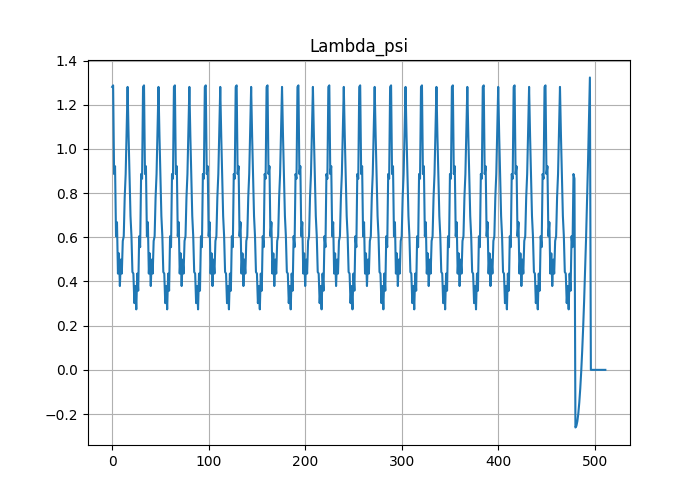
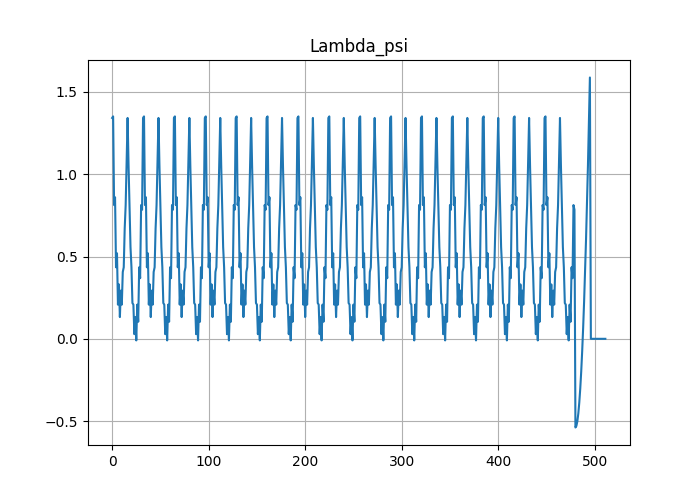
Lambda_f -> bar_Lambda_f by calling Y

diff --git a/matching_wavelet.py b/matching_wavelet.py
@@ -1,0 +1,96 @@
+import numpy as np
+import matplotlib.pyplot as plt
+
+begintime = 0
+endtime = 16
+N = 512 # number of sample
+l = 4
+T = 2 ** l # period
+delta_omega = 2*np.pi / T
+sampling_freq = 1 / T
+timepoints = np.arange(begintime, endtime, (endtime - begintime) / N)
+P = int(N / T) # number of period
+R = 2 # degree of phase function of lanmda_T
+
+if len(timepoints) != N :
+    raise Exception("Be same the num of samples {} and timepoints {}.".format(N, len(timepoints)))
+
+alpha = 2.0
+f_0 = 0.8
+def f_T(x) :
+    if x < 0 :
+        u = 0
+    else :
+        u = 1 
+    return x * np.exp(-alpha * x) * np.cos(2*np.pi*f_0*x) * u
+signal = [f_T(x) for x in timepoints]
+
+def make_A(size) :
+    # Make matrix A
+    A = np.zeros(size)
+    A[0][0] = A[0][6] = 1
+    A[1][1] = A[1][8] = 1
+    A[2][2] = A[2][10] = 1
+    A[3][3] = A[3][12] = 1
+    A[4][4] = A[4][14] = 1
+    A[5][5] = A[5][15] = 1
+    A[6][6] = A[6][14] = 1
+    A[7][7] = A[7][13] = 1
+    A[8][8] = A[8][12] = 1
+    A[9][9] = A[9][11] = 1
+    A[10][10] = 2
+    return A
+
+def matching_wavelet(signal, N, l, T, delta_omega, P) :
+    # Make matrix A
+    A = make_A((11,16))
+
+    # Make matrix W
+    fft = np.fft.fft(signal)
+    # fft = np.fft.fftshift(fft)
+    
+    fft_magnitude = abs(fft) ** 2
+
+    start_n = int(2**l / 3) + 1
+    end_n = int((2**(l+2)) / 3)
+
+    # make matrix W
+    W = np.array(fft_magnitude[start_n: end_n+1]) # W.shape = (end_n - start_n + 1, 1)
+    W = W * 1/T # 이게 뭐야...
+
+    if end_n - start_n + 1 == W.shape[0] :
+        print("Correspond the size of W")
+        print(f"W.shape: {W.shape} | start_n: {start_n} | end_n: {end_n}")
+    else :
+        print(f"W.shape have to equal to {end_n - start_n + 1}. Configure the size.")
+
+    # Calculate a
+    A_t = np.transpose(A)
+    numerate1 = np.transpose(np.ones(A.shape[0])) # 1.tr
+    numerate2 = np.linalg.inv(np.matmul(A, A_t))
+    numerate3 = np.matmul(np.matmul(np.matmul(numerate1, numerate2), A), W) # 분자
+    denominator1 = np.matmul(numerate1, numerate2)
+    denominator2 = np.matmul(denominator1, np.ones(A.shape[0])) # 분모
+    a = numerate3 / denominator2
+    print(f"a: {a}") # a
+
+    # Calculate Y
+    Y1 = np.linalg.inv(np.matmul(A, A_t))
+    Y2 = np.matmul(A_t, Y1)
+    Y3 = np.ones(A.shape[0]) - 1/a * np.matmul(A, W)
+    Y = 1/a * W + np.matmul(Y2, Y3)
+    # Y = Y * 1/sum(Y)
+    return Y, W
+
+if __name__ == "__main__" :
+    # Matching Discrete Spectrum Amplitude
+    Y, W = matching_wavelet(signal, N, l, T, delta_omega, P)
+
+    # Draw the vector Y
+    plt.title("Amplitude matching")
+    plt.plot([i for i in range(Y.shape[0])], Y, label='Amplitude Matching')
+    plt.plot([i for i in range(Y.shape[0])], W, '--', label='fft magnitude of singal')
+    plt.grid()
+    plt.legend()
+
+    plt.savefig("03amplitude_matching_wavelet.png")

diff --git a/04make_signal_gp_delay.py b/04make_signal_gp_delay.py
@@ -2,6 +2,7 @@ import numpy as np
 import cmath
 import matplotlib.pyplot as plt
 from scipy import interpolate
+from matching_wavelet import *
 
 begintime = 0
 endtime = 16
@@ -29,11 +30,11 @@ signal = [f_T(x) for x in timepoints]
 
 # make the group delay of signal
 fft = np.fft.fft(signal)
-fft = np.fft.fftshift(fft)
+# fft = np.fft.fftshift(fft)
 fft_magnitude = abs(fft)
 normalize_fft = fft / fft_magnitude
 
-k = np.arange(N)
+k = np.arange(len(normalize_fft))
 freq = k / T
 freq_list = [i for i in freq]
 
@@ -61,14 +62,6 @@ plt.grid()
 
 plt.savefig("04group_delay_signal.png")
 
-
-# _Lambda_f = []
-# for i in range(int(N/2)) :
-#     freq, fft_mag = data[i]
-#     _Lambda_f.append(f(freq))
-# Lambda_f = np.array(_Lambda_f)
-
-
 # make matrix B
 def Pi(n, k, T) :
     if -0.5 <= (n - T*k) / T < 0.5 :
@@ -84,17 +77,25 @@ def b_nr(n, r) :
     return b_nr
 
 B_qT = np.zeros((N, int(R/2 + 1)))
-for n in range(N) :
-    for r in range(int(R/2 + 1)) :
+for n in range(N) : # row index
+    for r in range(int(R/2 + 1)) : # column index
         B_qT[n][r] = b_nr(int(n/2 + T/2), r)
 
 
 B_q2m = np.zeros((N, int(R/2 + 1)))
-for n in range(N) :
-    for r in range(int(R/2 + 1)) :
+for n in range(N) : # row index
+    for r in range(int(R/2 + 1)) : # column index
         B_q2m[n][r] = b_nr(n/2, r)
 
 D_psi = B_qT + B_q2m
+
+
+start_n = int(2**l / 3) + 1
+end_n = int((2**(l+2)) / 3)
+
+Y, W = matching_wavelet(signal, N, l, T, delta_omega, P)
+Omega = Y / sum(Y)
+bar_Lambda_f = np.multiply(Lambda_f[start_n: end_n+1], Omega)
 
 # calculate Lambda_psi
 conju_Dpsi = np.conjugate(D_psi)
